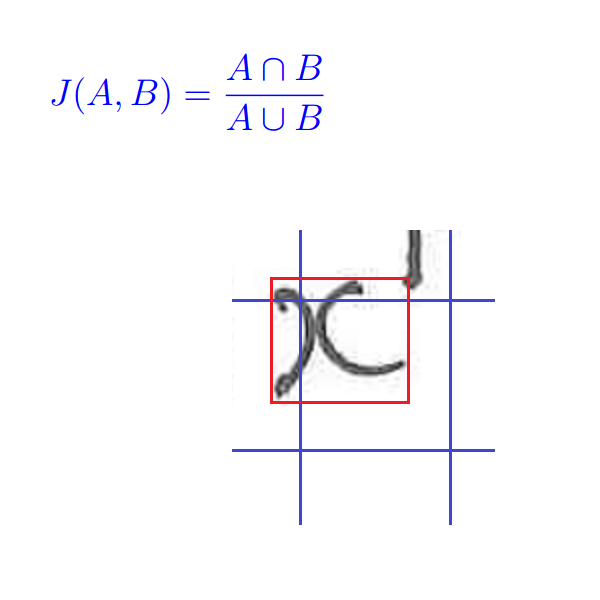
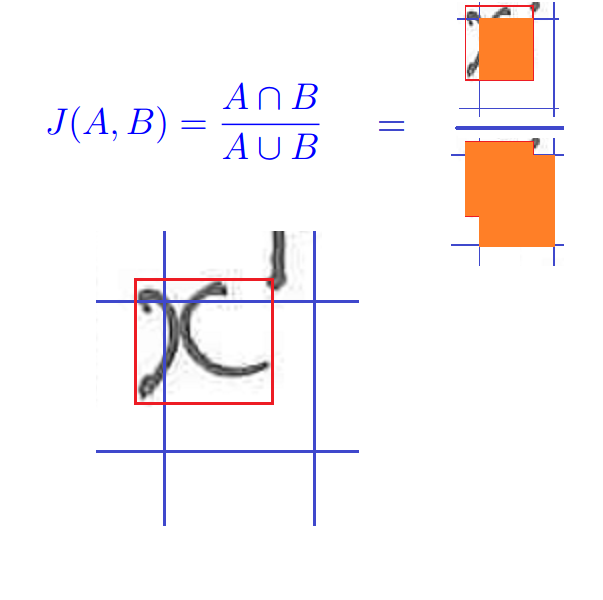
- update slide

Changed region(s): [[0.15, 0.0, 0.93, 0.87], [0.06, 0.09, 0.54, 0.27], [0.63, 0.18, 0.66, 0.24]]

diff --git a/slide/slide.tex b/slide/slide.tex
@@ -294,10 +294,13 @@
 		{\Huge Mô hình đề xuất}
 		\hspace{10 cm}
 		
+		\begin{itemize}
+			\item Mạng SSD - Single Shot Multibox Detector
+			\item DRACULAE - Diagram Recognition Application for Computer Understanding of Large Algebraic Expressions
+		\end{itemize}
 		
 		
 		
-		Mạng SSD - Single Shot Multibox Detector
 	\end{frame}
 	
 	%--------------------------------------------------
@@ -305,12 +308,10 @@
 	%--------------------------------------------------
 	\subsection{Lý thuyết mạng SSD}
 	
-	\frame{\tableofcontents
-		[
-		currentsection,
-		currentsubsection,
-		subsubsectionstyle=hide
-		]}
+	\begin{frame}
+		\frametitle{Lý thuyết mạng SSD}
+		{\Huge Lý thuyết mạng SSD}
+	\end{frame}
 	
 	\begin{frame}
 		\frametitle{Lý thuyết mạng SSD}
@@ -351,7 +352,7 @@
 		\begin{center}
 			\centering
 			\includegraphics[width=0.6\linewidth]{im_3.png}
-			\captionof{figure}{GT}
+			\captionof{figure}{Các default box với mức kích thước khác nhau}
 		\end{center}
 		\begin{block}{Sinh Default Box}
 			\begin{itemize}
@@ -366,7 +367,7 @@
 		\begin{center}
 			\centering
 			\includegraphics[width=0.5\linewidth]{aspect.png}
-			\captionof{figure}{aspect.png}
+			\captionof{figure}{Tại mỗi vị trí, nhiều default box được sinh ra với tỉ lệ kích thước khác nhau}
 		\end{center}
 		\begin{block}{Aspect Ratio}
 			\begin{itemize}
@@ -381,48 +382,36 @@
 		\frametitle{Bộ Mã Hóa (Encoder) - Matching}
 		\begin{center}
 			\centering
-			\includegraphics[width=0.6\linewidth]{GT.png}
-			\captionof{figure}{GT\cite{Jaccard}}
+			\includegraphics[width=0.5\linewidth]{GT_BB.png}
+			\vspace{0.5cm}
+			\captionof{figure}{Quá trình matching}
 		\end{center}
 	\end{frame}
 	\begin{frame}
 		\frametitle{Bộ Mã Hóa (Encoder) - Matching}
 		\begin{center}
 			\centering
-			\includegraphics[width=0.6\linewidth]{GT_BB.png}
-			\captionof{figure}{GT\cite{Jaccard}}
+			\includegraphics[width=0.5\linewidth]{GT_Ja.png}
+			\captionof{figure}{Chỉ số Jaccard \footfullcite{Jaccard}}
+		\end{center}
+	\end{frame}
+
+	\begin{frame}
+		\frametitle{Bộ Mã Hóa (Encoder) - Matching}
+		\begin{center}
+			\centering
+			\includegraphics[width=0.5\linewidth]{GTM.png}
+			\vspace{0.5cm}
+			\captionof{figure}{Quá trình matching}
 		\end{center}
 	\end{frame}
 	\begin{frame}
 		\frametitle{Bộ Mã Hóa (Encoder) - Matching}
 		\begin{center}
 			\centering
-			\includegraphics[width=0.6\linewidth]{GT_Ja.png}
-			\captionof{figure}{GT\cite{Jaccard}}
-		\end{center}
-	\end{frame}
-	\begin{frame}
-		\frametitle{Bộ Mã Hóa (Encoder) - Matching}
-		\begin{center}
-			\centering
-			\includegraphics[width=0.6\linewidth]{GT_IV.png}
-			\captionof{figure}{GT\cite{Jaccard}}
-		\end{center}
-	\end{frame}
-	\begin{frame}
-		\frametitle{Bộ Mã Hóa (Encoder) - Matching}
-		\begin{center}
-			\centering
-			\includegraphics[width=0.6\linewidth]{GTM.png}
-			\captionof{figure}{GT\cite{Jaccard}}
-		\end{center}
-	\end{frame}
-	\begin{frame}
-		\frametitle{Bộ Mã Hóa (Encoder) - Matching}
-		\begin{center}
-			\centering
-			\includegraphics[width=0.6\linewidth]{GTDoneMatch.png}
-			\captionof{figure}{GT\cite{Jaccard}}
+			\includegraphics[width=0.5\linewidth]{GTDoneMatch.png}
+			\vspace{0.5cm}
+			\captionof{figure}{Quá trình matching}
 		\end{center}
 	\end{frame}
 	
@@ -449,8 +438,8 @@
 	
 	\begin{frame}
 		\frametitle{Bộ phát hiện, phân loại - Mạng cơ sở}
-		Mạng cơ sở của SSD\cite{liu2016ssd} là một mạng nơron tích chập bất kỳ, có thể là VGG\cite{Simonyan14c} hoặc lenet\cite{yanlecun},... \\
-		Khi kết hợp với mạng SSD\cite{liu2016ssd}, các lớp liên kết đầy đủ của mạng nơ-ron tích chập sẽ được thay thế bằng các lớp tích chập khác và song hành là các bước trích feature map để dự đoán vị trí, kích thước của các ký tự.
+		Mạng cơ sở của SSD\footfullcite{liu2016ssd} là một mạng nơron tích chập bất kỳ, có thể là VGG\cite{Simonyan14c} hoặc lenet\cite{yanlecun},... \\
+		Khi kết hợp với mạng SSD\footfullcite{liu2016ssd}, các lớp liên kết đầy đủ của mạng nơ-ron tích chập sẽ được thay thế bằng các lớp tích chập khác và song hành là các bước trích feature map để dự đoán vị trí, kích thước của các ký tự.
 		
 	\end{frame}
 	
@@ -510,7 +499,7 @@
 		\begin{center}
 			\centering
 			\includegraphics[width=0.6\linewidth]{LOSSSS.png}
-			\captionof{figure}{GT}
+			\captionof{figure}{Độ lệch về kích thước}
 		\end{center}
 	\end{frame}
 	\begin{frame}
@@ -518,7 +507,8 @@
 		\begin{center}
 			\centering
 			\includegraphics[width=0.6\linewidth]{LOSSX.png}
-			\captionof{figure}{GT}
+			\vspace{0.3cm}
+			\captionof{figure}{Độ lệch về vị trí trọng tâm}
 		\end{center}
 	\end{frame}
 	
@@ -554,6 +544,12 @@
 	%--------------------------------------------------
 	%----------SUBSEC: SSD----------------------
 	%--------------------------------------------------
+	
+	\begin{frame}
+		\frametitle{Xây dựng các phiên bản}
+		{\Huge Xây dựng các phiên bản}
+	\end{frame}
+	
 	\subsection{Xây dựng các phiên bản}
 	\begin{frame}
 		\frametitle{Phiên bản I - Phiên bản nguyên thủy}
@@ -625,11 +621,6 @@
 			\vspace{0.5cm}
 			\captionof{figure}{Mô hình phiên bản III}
 		\end{center}
-		\begin{block}{Các thay đổi}
-			\begin{itemize}
-				\item Số lớp: 106
-			\end{itemize}
-		\end{block}
 	\end{frame}
 	
 	\begin{frame}
@@ -640,21 +631,22 @@
 			\vspace{0.5cm}
 			\captionof{figure}{Mô hình phiên bản IV}
 		\end{center}
-		\begin{block}{Các thay đổi}
-			\begin{itemize}
-				\item Số lớp: 106
-			\end{itemize}
-		\end{block}
 	\end{frame}
 	
 	
 	%--------------------------------------------------
 	%----------SUBSEC: PARSE----------------------
 	%--------------------------------------------------
+	
+	\begin{frame}
+		\frametitle{Phân tích cấu trúc}
+		{\Huge Phân tích cấu trúc}
+	\end{frame}
+	
 	\subsection{Phân tích cấu trúc}
 	\begin{frame}
 		\frametitle{Phân tích cấu trúc}
-		Bộ phận phân tích cấu trúc có nhiệm vụ nhận dữ liệu là các bounding box từ SSD\cite{liu2016ssd} và xây dựng một cây Lex - BST tạo tiền đề để xây dựng biểu thức Latex.
+		Bộ phận phân tích cấu trúc có nhiệm vụ nhận dữ liệu là các bounding box từ SSD\footfullcite{liu2016ssd} và xây dựng một cây Lex - BST\footfullcite{zanibbi} tạo tiền đề để xây dựng biểu thức Latex.
 	\end{frame}
 	
 	%--------------------------------------------------
@@ -705,7 +697,7 @@
 		\begin{center}
 			\centering
 			\includegraphics[width=0.6\linewidth]{hor1.png}
-			\captionof{figure}{GT}
+			\captionof{figure}{Xác định ký tự trên đường cơ sở}
 		\end{center}
 	\end{frame}
 	
@@ -714,7 +706,7 @@
 		\begin{center}
 			\centering
 			\includegraphics[width=0.6\linewidth]{hor2.png}
-			\captionof{figure}{GT}
+			\captionof{figure}{Xác định ký tự trên đường cơ sở}
 		\end{center}
 	\end{frame}
 	
@@ -723,7 +715,7 @@
 		\begin{center}
 			\centering
 			\includegraphics[width=0.6\linewidth]{hor3.png}
-			\captionof{figure}{GT}
+			\captionof{figure}{Xác định ký tự trên đường cơ sở}
 		\end{center}
 	\end{frame}
 	
@@ -732,7 +724,7 @@
 		\begin{center}
 			\centering
 			\includegraphics[width=0.6\linewidth]{hor4.png}
-			\captionof{figure}{GT}
+			\captionof{figure}{Xác định ký tự trên đường cơ sở}
 		\end{center}
 	\end{frame}
 	
@@ -741,7 +733,7 @@
 		\begin{center}
 			\centering
 			\includegraphics[width=0.6\linewidth]{hor5.png}
-			\captionof{figure}{GT}
+			\captionof{figure}{Xác định ký tự trên đường cơ sở}
 		\end{center}
 	\end{frame}
 	
@@ -750,7 +742,7 @@
 		\begin{center}
 			\centering
 			\includegraphics[width=0.6\linewidth]{hor5_5.png}
-			\captionof{figure}{GT}
+			\captionof{figure}{Xác định ký tự trên đường cơ sở}
 		\end{center}
 	\end{frame}
 	
@@ -759,7 +751,7 @@
 		\begin{center}
 			\centering
 			\includegraphics[width=0.6\linewidth]{hor6.png}
-			\captionof{figure}{GT}
+			\captionof{figure}{Xác định ký tự trên đường cơ sở}
 		\end{center}
 	\end{frame}
 	
@@ -768,7 +760,7 @@
 		\begin{center}
 			\centering
 			\includegraphics[width=0.6\linewidth]{hor7.png}
-			\captionof{figure}{GT}
+			\captionof{figure}{Xác định ký tự trên đường cơ sở}
 		\end{center}
 	\end{frame}
 	
@@ -777,7 +769,7 @@
 		\begin{center}
 			\centering
 			\includegraphics[width=0.6\linewidth]{hor8.png}
-			\captionof{figure}{GT}
+			\captionof{figure}{Tái phân vùng}
 		\end{center}
 	\end{frame}
 	
@@ -786,7 +778,7 @@
 		\begin{center}
 			\centering
 			\includegraphics[width=0.75\linewidth]{UN.png}
-			\captionof{figure}{GT}
+			\captionof{figure}{Xử lý nút con}
 		\end{center}
 		\begin{block}{Xử lý nút con}
 			Sau lần chạy đầu tiên thì các nút con mới chỉ là danh sách các ký tự, vì vậy cần xử lý từng nút con để thu được cây BST hoàn chỉnh.
@@ -816,7 +808,7 @@
 		\begin{center}
 			\centering
 			\includegraphics[width=0.6\linewidth]{nhom.png}
-			\captionof{figure}{Một cây Lexed BST}
+			\captionof{figure}{Nhóm các ký tự phù hợp}
 		\end{center}
 		
 		\begin{block}{Nhóm ký tự}
@@ -832,7 +824,7 @@
 		\begin{center}
 			\centering
 			\includegraphics[width=0.6\linewidth]{lex1.png}
-			\captionof{figure}{Một cây Lexed BST}
+			\captionof{figure}{Sử dụng các luật sinh để sinh cây Lexed BST}
 		\end{center}
 		
 		\begin{block}{Luật sinh}
